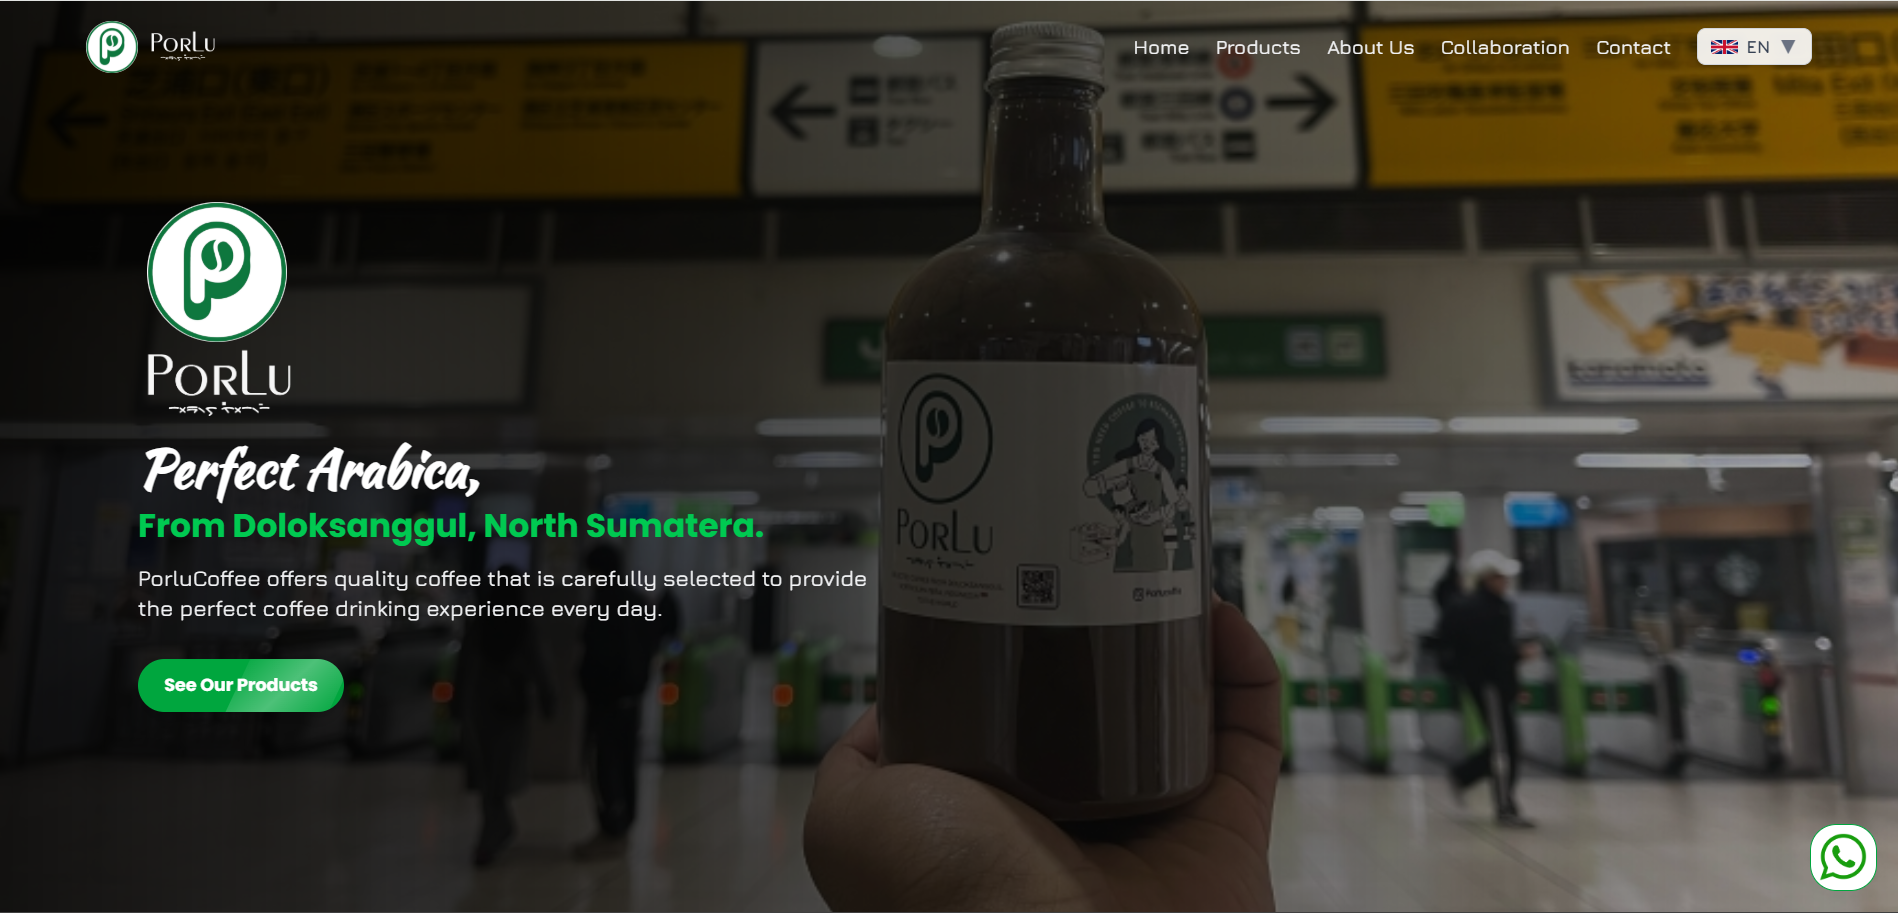
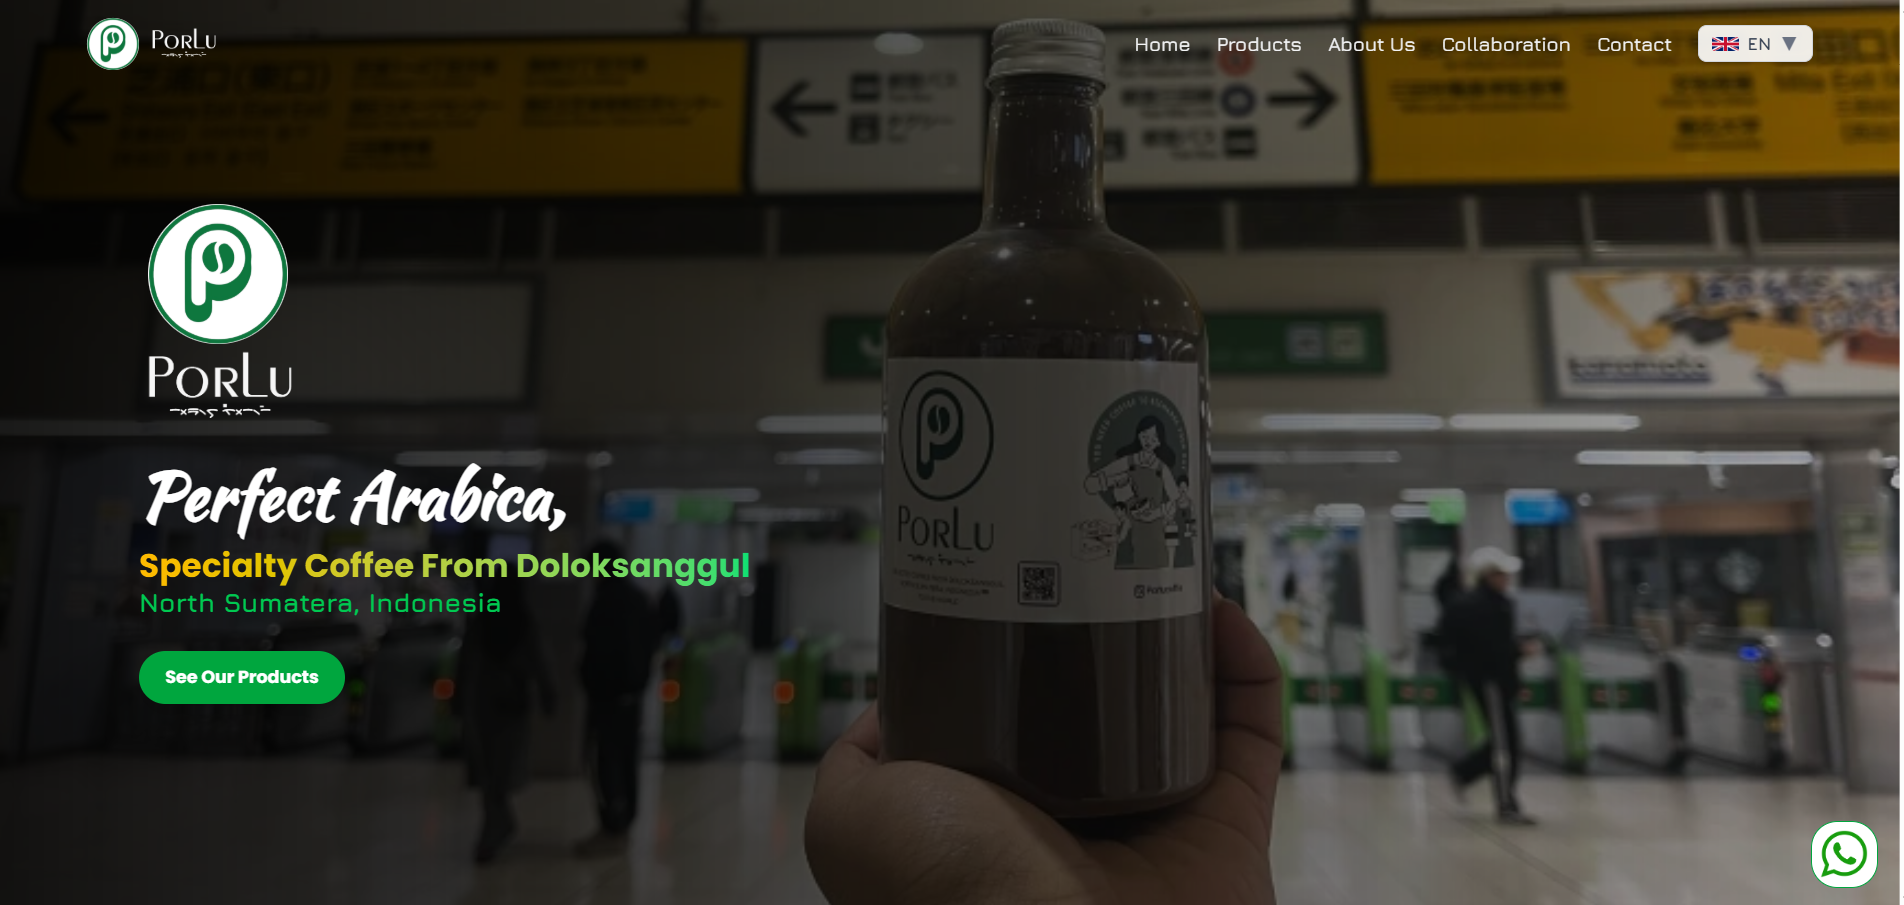
update 8.1

diff --git a/app/page.tsx b/app/page.tsx
@@ -6,7 +6,6 @@ import { FaInstagram } from "react-icons/fa";
 import BestOf from "./components/BestOf";
 import Carousel from "./components/Carousel";
 
-const text = `PorluCoffee offers quality coffee that is carefully selected to provide the perfect coffee drinking experience every day.`;
 const instaImages = [
   {
     image: "/assets/porlucoffee-story.png",
@@ -28,19 +27,21 @@ const instaImages = [
     image: "/assets/porlucoffee-drip_coffee.jpg",
     to: "https://www.instagram.com/p/DJZR_FfJzfy/",
   },
+  {
+    image: "/assets/porlu-founder-with-mr-surip-mawardi.jpg",
+    to: "https://www.instagram.com/p/DKEMpT4RrbF/",
+  },
+  {
+    image: "/assets/porlucoffee-brownsugar_btl.webp",
+    to: "https://www.instagram.com/p/DKCaqoTJSKS/",
+  },
 ];
 
-const renderTypingText = () =>
-  text.split("").map((char, i) => (
-    <span key={i} style={{ "--char-index": i } as React.CSSProperties}>
-      {char}
-    </span>
-  ));
 
 export const metadata: Metadata = {
   title: "PorluCoffee",
   description:
-    "Perfect Arabica. From Doloksanggul, North Sumatera. PorluCoffee is a coffee that comes from the highlands of North Sumatra, Doloksanggul",
+    "Perfect Arabica. Coffee Specialty from Doloksanggul, North Sumatera. PorluCoffee is a coffee that comes from the highlands of North Sumatra, Doloksanggul",
 };
 
 export default function Home() {
@@ -55,10 +56,10 @@ export default function Home() {
           loading="lazy"
         />
 
-        <div className="absolute inset-0 bg-gradient-to-r from-black/90 via-black/65 to-black/30 z-10"></div>
+        <div className="absolute inset-0 bg-gradient-to-b md:bg-gradient-to-r from-black/90 via-black/65 to-black/30 z-10"></div>
 
         <div className="relative z-20 h-full flex flex-col justify-center items-center md:items-start px-8 md:px-12 lg:px-32 text-white">
-          <div className="flex flex-col mb-3 gap-1 animate-fadeSlideIn justify-center items-center">
+          <div className="flex flex-col mb-7 gap-1 animate-fadeSlideIn justify-center items-center">
             <img
               src="/assets/porlucoffee-logo.png"
               alt="PorluCoffee Logo"
@@ -72,15 +73,15 @@ export default function Home() {
             />
           </div>
           <div className="flex flex-col items-center md:items-start animate-fadeDown">
-            <h1 className="text-3xl font-kaushan md:text-4xl lg:text-5xl font-extrabold mb-1 leading-tight drop-shadow">
+            <h1 className="text-4xl font-kaushan md:text-5xl lg:text-6xl font-extrabold mb-2 leading-tight drop-shadow">
               Perfect Arabica,
             </h1>
-            <h2 className="text-xl md:text-2xl lg:text-3xl text-center md:text-start font-poppins font-bold text-green-500 mb-4">
-              From Doloksanggul, North Sumatera.
+            <h2 className="text-xl md:text-2xl lg:text-3xl text-center md:text-start font-poppins font-bold text-transparent bg-clip-text bg-gradient-to-r from-amber-400 to-green-400">
+              Specialty Coffee From Doloksanggul
             </h2>
-            <p className="text-sm md:text-lg  lg:text-xl text-center md:text-start font-jura text-gray-100 max-w-2xl mb-8 typewriter">
-              {renderTypingText()}
-            </p>
+            <h2 className="text-lg md:text-xl lg:text-2xl text-green-500 text-center md:text-start font-jura font-extrabold mb-7">
+              North Sumatera, Indonesia{" "}
+            </h2>
 
             <Link href="/products/">
               <button className="shine-button bg-green-600 hover:bg-green-700 transition px-4 py-2 md:px-6 md:py-3 text-sm md:text-base cursor-pointer rounded-full font-poppins font-semibold text-white shadow-lg">
@@ -101,11 +102,11 @@ export default function Home() {
             We don&apos;t just serve coffee — we serve stories, flavors, and
             meaning in every cup.
           </p>
-          <div className="h-80 overflow-hidden md:h-[30rem] mt-5 rounded-l-[50px] rounded-r-sm">
+          <div className="h-60 overflow-hidden md:h-[25rem] mt-2 md:mt-5 md:rounded-l-[50px] rounded-r-sm">
             <img
-              src="/assets/porlucoffee-product1.webp"
+              src="/assets/product-hero.webp"
               alt="PorluCoffee Product"
-              className="object-cover h-full w-full aspect-square hover:scale-110 transition"
+              className="object-contain rounded-l-[50px] md:rounded-l-none scale-110 h-full w-full aspect-square hover:scale-125 transition"
               loading="lazy"
             />
           </div>
@@ -171,7 +172,7 @@ export default function Home() {
           <h2 className="text-4xl md:text-[2.5rem] font-bold text-gray-800 font-kaushan mb-2">
             Our Story
           </h2>
-          <div className="h-80 overflow-hidden md:h-[30rem] mt-5 rounded-r-[50px] rounded-l-sm">
+          <div className="h-80 overflow-hidden md:h-[30rem] mt-5 rounded-r-3xl md:rounded-r-[50px] rounded-l-sm">
             <img
               src="/assets/porlucoffee-story.png"
               alt="About PorluCoffee"
@@ -346,7 +347,7 @@ export default function Home() {
           <h2 className="text-sm md:text-base lg:text-lg font-semibold font-outfit text-green-900">
             Follow us in Instagram!
           </h2>
-          <h1 className="text-3xl md:text-4xl lg:text-5xl bg-gradient-to-bl from-fuchsia-500 via-purple-600 to-yellow-500 font-semibold font-raleway bg-clip-text text-transparent">
+          <h1 className="text-3xl md:text-4xl lg:text-5xl font-semibold font-raleway text-gray-800">
             @porlucoffee
           </h1>
           <a

diff --git a/app/id/page.tsx b/app/id/page.tsx
@@ -5,7 +5,6 @@ import { FaInstagram } from "react-icons/fa";
 import BestOf from "./components/BestOf";
 import Carousel from "../components/Carousel";
 
-const text = `PorluCoffee menawarkan kualitas dari kopi yang dipilih secara matang untuk menghadirkan pengalaman minum kopi yang sempurna setiap hari.`;
 
 const instaImages = [
   {
@@ -28,19 +27,20 @@ const instaImages = [
     image: "/assets/porlucoffee-drip_coffee.jpg",
     to: "https://www.instagram.com/p/DJZR_FfJzfy/",
   },
+  {
+    image: "/assets/porlu-founder-with-mr-surip-mawardi.jpg",
+    to: "https://www.instagram.com/p/DKEMpT4RrbF/",
+  },
+  {
+    image: "/assets/porlucoffee-brownsugar_btl.webp",
+    to: "https://www.instagram.com/p/DKCaqoTJSKS/",
+  },
 ];
-
-const renderTypingText = () =>
-  text.split("").map((char, i) => (
-    <span key={i} style={{ "--char-index": i } as React.CSSProperties}>
-      {char}
-    </span>
-  ));
 
 export const metadata: Metadata = {
   title: "Beranda - PorluCoffee",
   description:
-    "Perfect Arabica. From Doloksanggul, North Sumatera. PorluCoffee adalah kopi yang berasal dari dataran tinggi Sumatera Utara, Doloksanggul",
+    "Perfect Arabica. Spesialis kopi dari Doloksanggul, Sumatera Utara. PorluCoffee adalah kopi yang berasal dari dataran tinggi Sumatera Utara, Doloksanggul",
 };
 
 export default function Home() {
@@ -72,15 +72,15 @@ export default function Home() {
             />
           </div>
           <div className="flex flex-col items-center md:items-start animate-fadeDown">
-            <h1 className="text-3xl font-kaushan md:text-4xl lg:text-5xl font-extrabold mb-1 leading-tight drop-shadow">
+            <h1 className="text-4xl font-kaushan md:text-5xl lg:text-6xl font-extrabold mb-2 leading-tight drop-shadow">
               Perfect Arabica,
             </h1>
-            <h2 className="text-xl md:text-2xl lg:text-3xl text-center md:text-start font-poppins font-bold text-green-500 mb-4">
-              From Doloksanggul, North Sumatera.
+            <h2 className="text-xl md:text-2xl lg:text-3xl text-center md:text-start font-poppins font-bold text-transparent bg-clip-text bg-gradient-to-r from-amber-400 to-green-400">
+              Specialty Coffee From Doloksanggul
             </h2>
-            <p className="text-sm md:text-lg  lg:text-xl text-center md:text-start font-jura text-gray-100 max-w-2xl mb-8 typewriter">
-              {renderTypingText()}
-            </p>
+            <h2 className="text-lg md:text-xl lg:text-2xl text-green-500 text-center md:text-start font-jura font-extrabold mb-7">
+              North Sumatera, Indonesia{" "}
+            </h2>
 
             <Link href="/products/">
               <button className="shine-button bg-green-600 hover:bg-green-700 transition px-4 py-2 md:px-6 md:py-3 text-sm md:text-base cursor-pointer rounded-full font-poppins font-semibold text-white shadow-lg">
@@ -101,11 +101,11 @@ export default function Home() {
             Kami tidak sekadar menyajikan kopi — tapi juga cerita, rasa, dan
             makna dalam setiap cangkir.
           </p>
-          <div className="h-80 overflow-hidden md:h-[30rem] mt-5 rounded-l-[50px] rounded-r-sm">
+          <div className="h-60 overflow-hidden md:h-[25rem] mt-2 md:mt-5 md:rounded-l-[50px] rounded-r-sm">
             <img
-              src="/assets/porlucoffee-product1.webp"
+              src="/assets/product-hero.webp"
               alt="PorluCoffee Product"
-              className="object-cover h-full w-full aspect-square hover:scale-110 transition"
+              className="object-contain rounded-l-[50px] md:rounded-l-none scale-110 h-full w-full aspect-square hover:scale-125 transition"
               loading="lazy"
             />
           </div>
@@ -347,7 +347,7 @@ export default function Home() {
           <h2 className="text-sm md:text-base lg:text-lg font-semibold font-outfit text-green-900">
             Ikuti kami di Instagram!
           </h2>
-          <h1 className="text-3xl md:text-4xl lg:text-5xl bg-gradient-to-bl from-fuchsia-500 via-purple-600 to-yellow-500 font-semibold font-raleway bg-clip-text text-transparent">
+          <h1 className="text-3xl md:text-4xl lg:text-5xl font-semibold font-raleway text-gray-800">
             @porlucoffee
           </h1>
           <a

diff --git a/app/components/BestOf.tsx b/app/components/BestOf.tsx
@@ -49,7 +49,7 @@ const BestOf = () => {
         </p>
       </div>
 
-      <div className="flex flex-wrap justify-center md:px-10 gap-2 md:gap-5 lg:gap-16">
+      <div className="flex flex-wrap justify-center md:px-10 gap-3 md:gap-5 lg:gap-16">
         {loading && (
           <>
             <div className="flex bg-white/60 animate-pulse w-40 h-40 md:h-52 md:w-52 lg:h-60 lg:w-60 xl:w-72 xl:h-72 rounded-2xl shadow-md px-4 py-3 gap-50 items-center"></div>
@@ -61,19 +61,19 @@ const BestOf = () => {
         {products.map((product) => (
           <div
             key={product.id}
-            className="flex flex-col bg-white rounded-2xl shadow-md hover:shadow-lg transition p-1 gap-6 border-[0.1px] border-yellow-600 hover:scale-[101%] hover:translate-y-[-4px]"
+            className="flex flex-col bg-white/50 rounded-lg shadow-md hover:shadow-lg transition hover:scale-[101%] hover:translate-y-[-4px]"
           >
             <img
               src={`/${product.image}`}
               alt={product.productName}
-              className="w-40 h-40 md:h-52 md:w-52 lg:h-60 lg:w-60 xl:w-72 xl:h-72 object-cover rounded-xl shrink-0"
+              className="w-40 h-40 md:h-52 md:w-52 lg:h-60 lg:w-60 xl:w-72 xl:h-72 object-contain rounded-xl shrink-0"
               loading="lazy"
             />
-            <div className="max-w-40 md:max-w-52 lg:max-w-60 xl:max-w-72 px-1 pb-3 md:px-4">
-              <h3 className="md:text-lg lg:text-xl font-outfit font-semibold text-gray-800 mb-1">
+            <div className="bg-white py-3 px-3 lg:px-5 h-full max-w-40 rounded-b-lg md:max-w-52 lg:max-w-60 xl:max-w-72">
+              <h3 className="text-sm md:text-base lg:text-lg xl:text-xl font-outfit font-semibold text-gray-800 mb-1">
                 {product.productName}
               </h3>
-              <p className="text-emerald-900 text-sm md:text-base font-semibold font-jura">
+              <p className="text-emerald-900 text-xs md:text-sm lg:text-base font-semibold font-jura">
                 Rp
                 {(product.variants?.[0]?.price ?? product.price).toLocaleString(
                   "id-ID"

diff --git a/app/id/components/BestOf.tsx b/app/id/components/BestOf.tsx
@@ -62,19 +62,19 @@ const BestOf = () => {
         {products.map((product) => (
           <div
             key={product.id}
-            className="flex flex-col bg-white rounded-2xl shadow-md hover:shadow-lg transition p-1 gap-6 border-[0.1px] border-yellow-600 hover:scale-[101%] hover:translate-y-[-4px]"
+            className="flex flex-col bg-white/50 rounded-lg shadow-md hover:shadow-lg transition hover:scale-[101%] hover:translate-y-[-4px]"
           >
             <img
               src={`/${product.image}`}
               alt={product.productName}
-              className="w-40 h-40 md:h-52 md:w-52 lg:h-60 lg:w-60 xl:w-72 xl:h-72 object-cover rounded-xl shrink-0"
+              className="w-40 h-40 md:h-52 md:w-52 lg:h-60 lg:w-60 xl:w-72 xl:h-72 object-contain rounded-xl shrink-0"
               loading="lazy"
             />
-            <div className="max-w-40 md:max-w-52 lg:max-w-60 xl:max-w-72 px-1 pb-3 md:px-4">
-              <h3 className="md:text-lg lg:text-xl font-outfit font-semibold text-gray-800 mb-1">
+            <div className="bg-white py-3 px-3 lg:px-5 h-full max-w-40 rounded-b-lg md:max-w-52 lg:max-w-60 xl:max-w-72">
+              <h3 className="text-sm md:text-base lg:text-lg xl:text-xl font-outfit font-semibold text-gray-800 mb-1">
                 {product.productName}
               </h3>
-              <p className="text-emerald-900 text-sm md:text-base font-semibold font-jura">
+              <p className="text-emerald-900 text-xs md:text-sm lg:text-base font-semibold font-jura">
                 Rp
                 {(product.variants?.[0]?.price ?? product.price).toLocaleString(
                   "id-ID"

diff --git a/README.md b/README.md
@@ -14,7 +14,10 @@ This is the Repository of Official PorluCoffee Website, developed by Fatir
 1. Clone this repo:
    ```bash
    git clone https://github.com/fatiryasn/porlu-coffee.git
+2. Run this command:
+   ```bash
+   npm install
+   npm run dev
 
-
-
+<br><br>
 'uh' - A wise word
